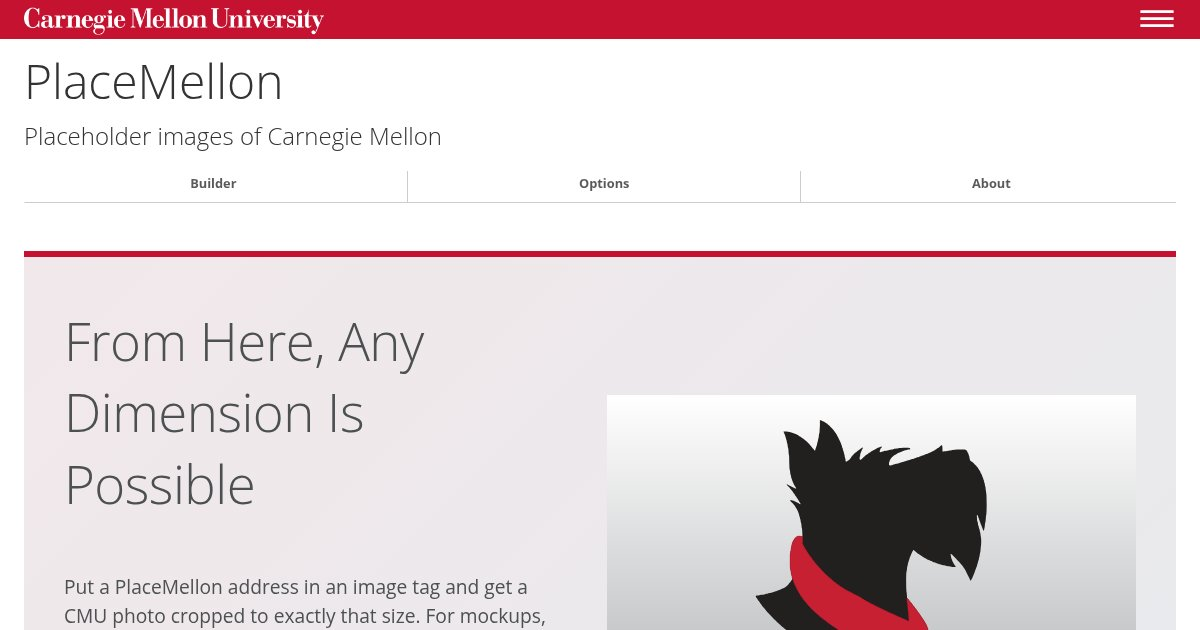
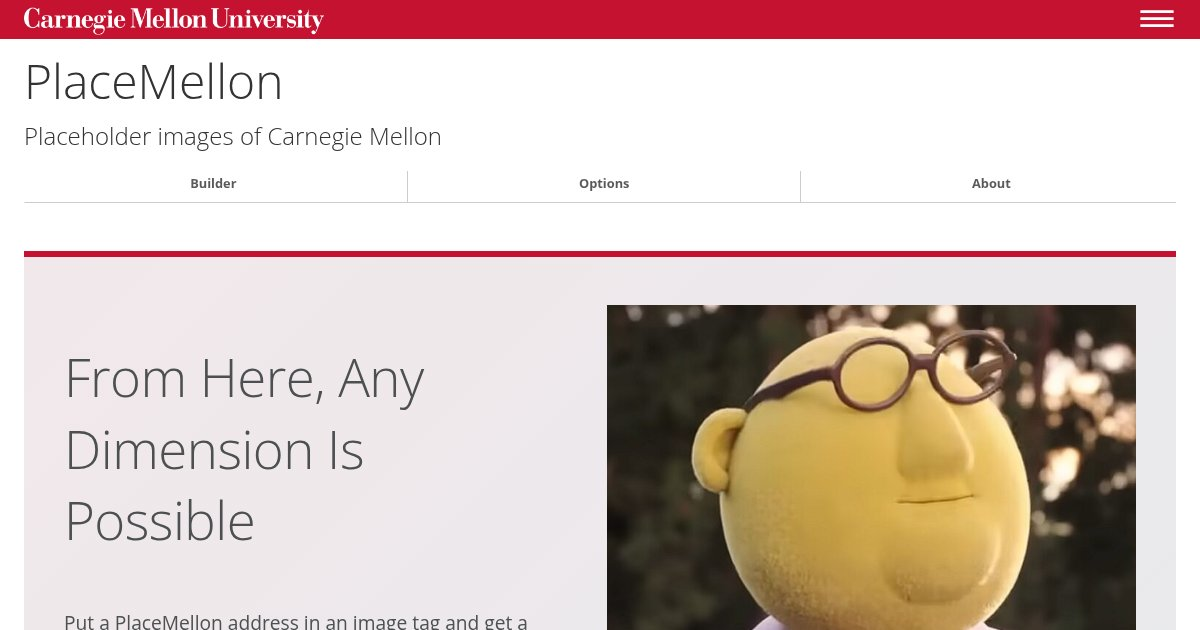
docs: preview image from the real home page

Changed region(s): [[0.4933, 0.4825, 0.9558, 1.0], [0.0617, 0.5127, 0.37, 0.8746], [0.0308, 0.9048, 0.4625, 1.0]]

diff --git a/docs/about.html b/docs/about.html
@@ -18,7 +18,7 @@
     <meta property="og:image:height" content="630" />
     <meta
       property="og:image:alt"
-      content="PlaceMellon's home page: From Here, Any Dimension Is Possible, beside a Scotty placeholder."
+      content="PlaceMellon's home page: From Here, Any Dimension Is Possible, beside a photo of Dr. Bunsen Honeydew."
     />
     <meta name="twitter:card" content="summary_large_image" />
     <!-- End of link previews -->

diff --git a/docs/builder.html b/docs/builder.html
@@ -18,7 +18,7 @@
     <meta property="og:image:height" content="630" />
     <meta
       property="og:image:alt"
-      content="PlaceMellon's home page: From Here, Any Dimension Is Possible, beside a Scotty placeholder."
+      content="PlaceMellon's home page: From Here, Any Dimension Is Possible, beside a photo of Dr. Bunsen Honeydew."
     />
     <meta name="twitter:card" content="summary_large_image" />
     <!-- End of link previews -->

diff --git a/docs/index.html b/docs/index.html
@@ -18,7 +18,7 @@
     <meta property="og:image:height" content="630" />
     <meta
       property="og:image:alt"
-      content="PlaceMellon's home page: From Here, Any Dimension Is Possible, beside a Scotty placeholder."
+      content="PlaceMellon's home page: From Here, Any Dimension Is Possible, beside a photo of Dr. Bunsen Honeydew."
     />
     <meta name="twitter:card" content="summary_large_image" />
     <!-- End of link previews -->

diff --git a/docs/options.html b/docs/options.html
@@ -18,7 +18,7 @@
     <meta property="og:image:height" content="630" />
     <meta
       property="og:image:alt"
-      content="PlaceMellon's home page: From Here, Any Dimension Is Possible, beside a Scotty placeholder."
+      content="PlaceMellon's home page: From Here, Any Dimension Is Possible, beside a photo of Dr. Bunsen Honeydew."
     />
     <meta name="twitter:card" content="summary_large_image" />
     <!-- End of link previews -->
